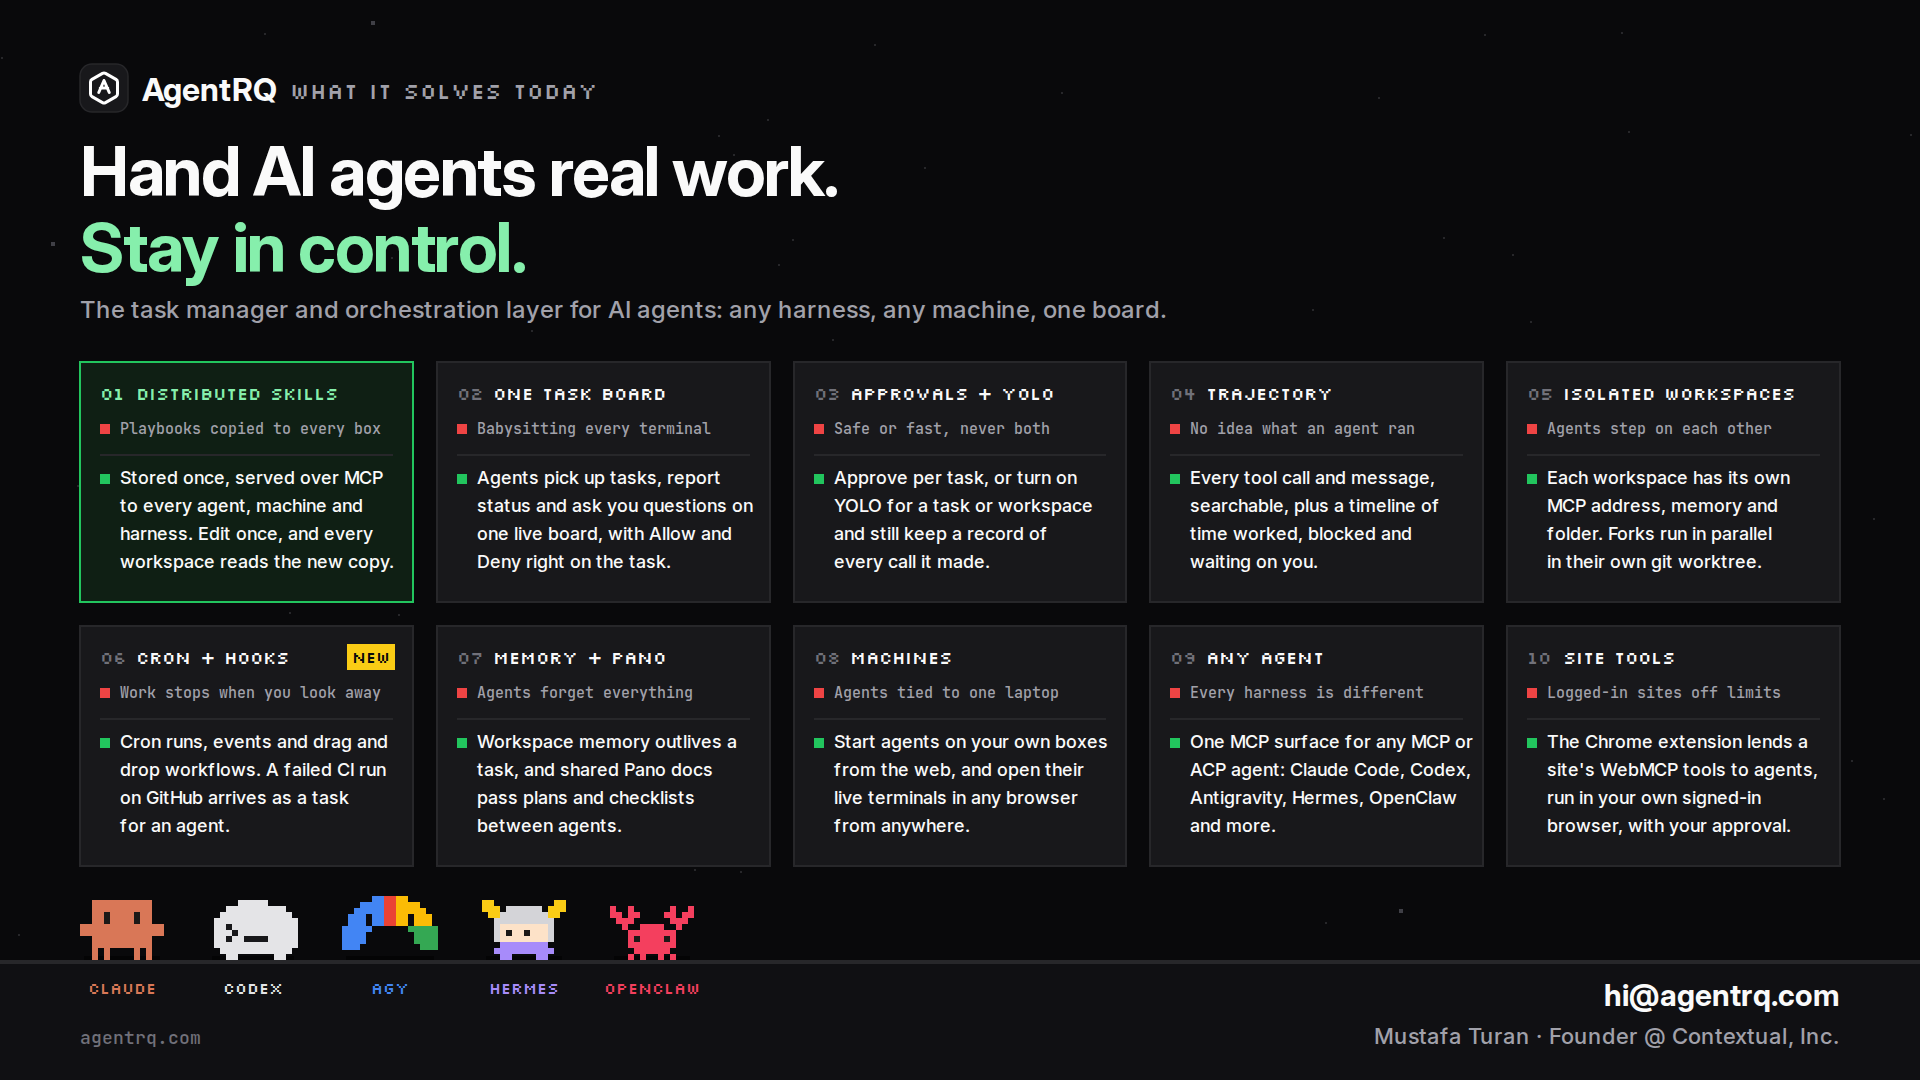
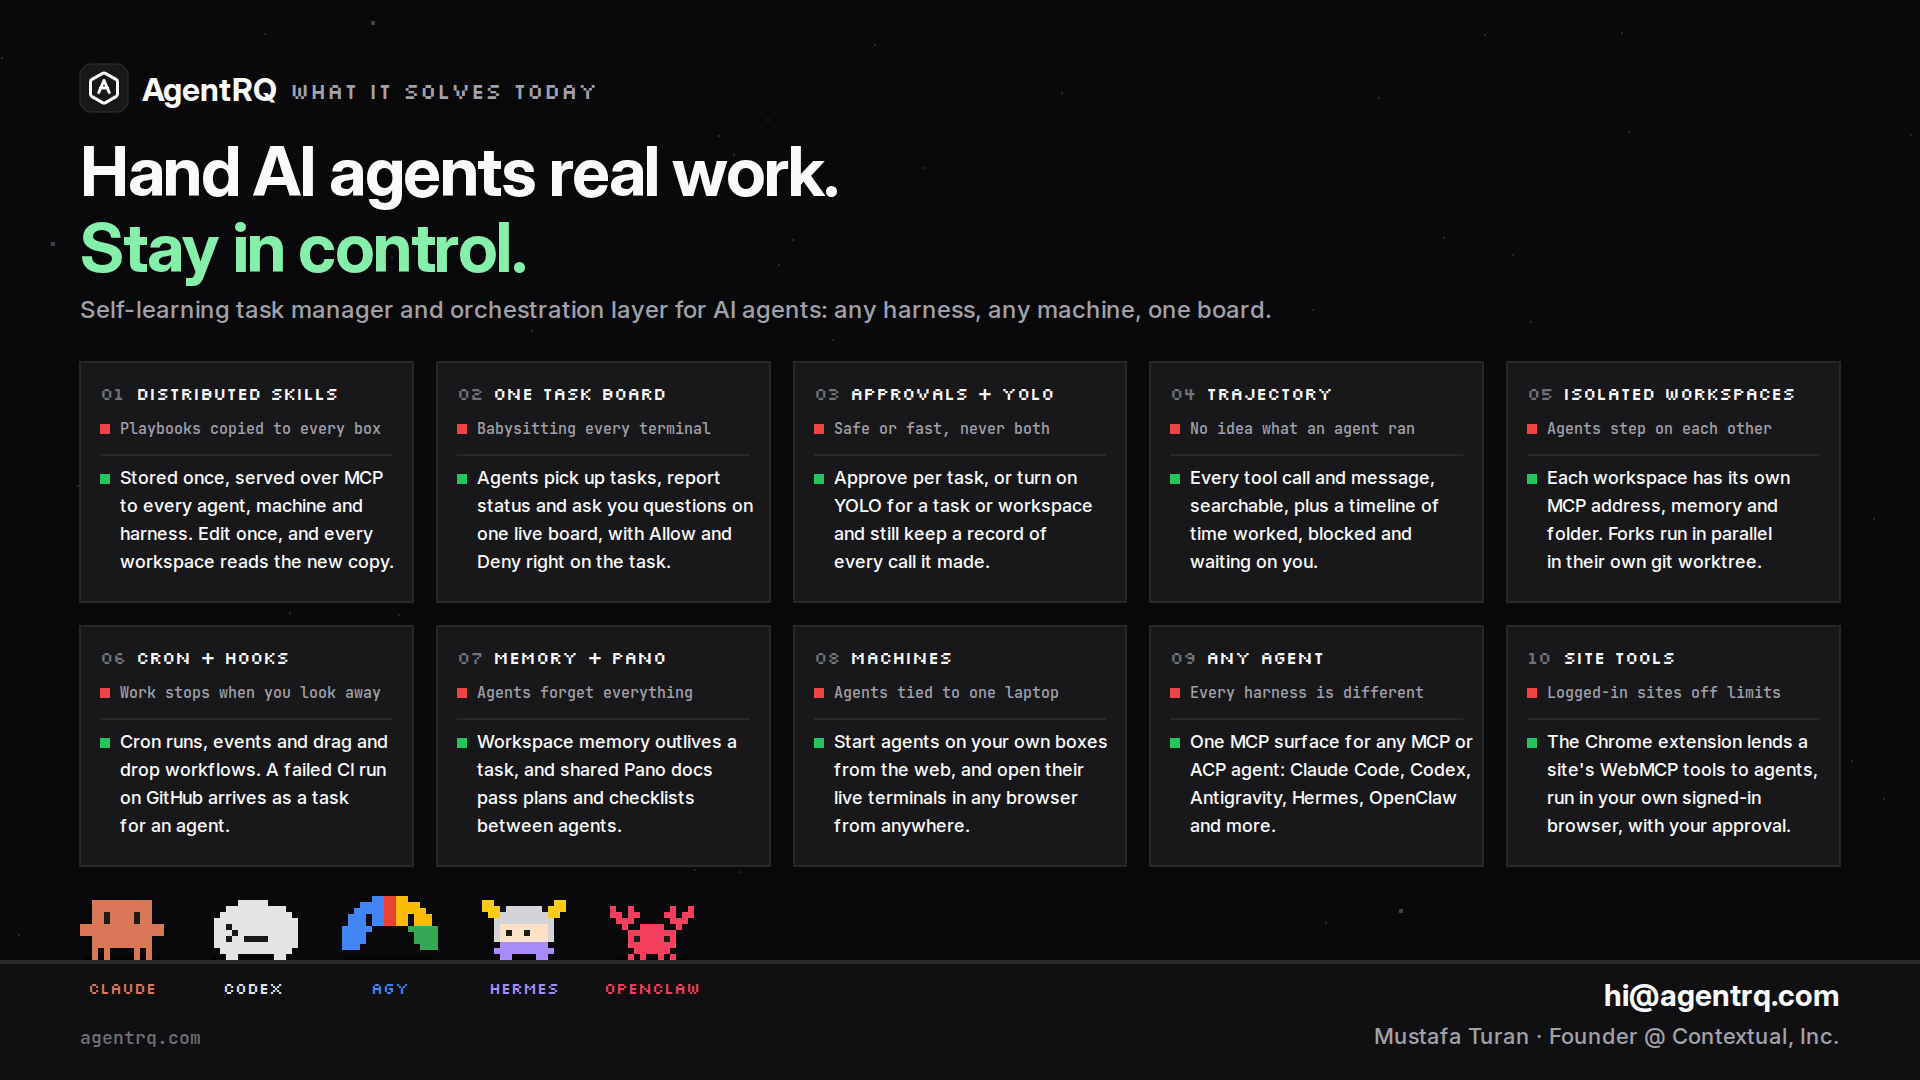
fix: no highlighted card or NEW flag, and a self-learning subtitle

Changed region(s): [[0.0312, 0.275, 0.6562, 0.3056], [0.1875, 0.5806, 0.2188, 0.6417], [0.0938, 0.3361, 0.1562, 0.3667]]

diff --git a/slides/problems-solved.js b/slides/problems-solved.js
@@ -9,13 +9,13 @@ export const H = 1080;
 const GROUND = 960;
 const PX = 6;
 
-// [kicker, problem, solution lines, highlight]
+// [kicker, problem, solution lines]
 export const CARDS = [
   ['DISTRIBUTED SKILLS', 'Playbooks copied to every box', [
     'Stored once, served over MCP',
     'to every agent, machine and',
     'harness. Edit once, and every',
-    'workspace reads the new copy.'], 'lead'],
+    'workspace reads the new copy.']],
   ['ONE TASK BOARD', 'Babysitting every terminal', [
     'Agents pick up tasks, report',
     'status and ask you questions on',
@@ -40,7 +40,7 @@ export const CARDS = [
     'Cron runs, events and drag and',
     'drop workflows. A failed CI run',
     'on GitHub arrives as a task',
-    'for an agent.'], 'new'],
+    'for an agent.']],
   ['MEMORY + PANO', 'Agents forget everything', [
     'Workspace memory outlives a',
     'task, and shared Pano docs',
@@ -82,15 +82,10 @@ function logo(s, x, y, scale) {
       el('path', { d: 'M12 7l-3.5 8M12 7l3.5 8M9.5 12h5' }))));
 }
 
-function card(s, { x, y, w, h }, [kicker, problem, lines, mark], n) {
-  const lead = mark === 'lead';
-  s.add(el('rect', { x, y, width: w, height: h, fill: lead ? '#0f1f14' : C.panel, stroke: lead ? C.ongoing : C.line, 'stroke-width': 2, class: 'px' }));
-  s.add(s.text(String(n).padStart(2, '0'), { x: x + 20, y: y + 38, font: 'pixel', size: 18, fill: lead ? C.lit : C.notstarted }));
-  s.add(s.text(kicker, { x: x + 56, y: y + 38, font: 'pixel', size: 18, fill: lead ? C.lit : C.text }));
-  if (mark === 'new') {
-    s.add(el('rect', { x: x + w - 66, y: y + 18, width: 48, height: 26, fill: C.ask, class: 'px' }));
-    s.add(s.text('NEW', { x: x + w - 42, y: y + 37, font: 'pixel', size: 16, fill: C.ink, anchor: 'middle' }));
-  }
+function card(s, { x, y, w, h }, [kicker, problem, lines], n) {
+  s.add(el('rect', { x, y, width: w, height: h, fill: C.panel, stroke: C.line, 'stroke-width': 2, class: 'px' }));
+  s.add(s.text(String(n).padStart(2, '0'), { x: x + 20, y: y + 38, font: 'pixel', size: 18, fill: C.notstarted }));
+  s.add(s.text(kicker, { x: x + 56, y: y + 38, font: 'pixel', size: 18, fill: C.text }));
   // The problem, marked in the blocked red.
   s.add(el('rect', { x: x + 20, y: y + 62, width: 10, height: 10, fill: C.blocked, class: 'px' }));
   s.add(s.text(problem, { x: x + 40, y: y + 72, font: 'mono', size: 15, fill: C.dim }));
@@ -104,7 +99,7 @@ export default async function () {
   const base = newScene({ description: 'x', poster: 1 });
   const s = new Scene({
     width: W, height: H, loop: 1, background: C.bg, poster: 0,
-    description: 'What AgentRQ solves today: ten problems of running AI coding agents, each with what AgentRQ does about it, led by distributed skills. Contact hi@agentrq.com, Mustafa Turan, Founder at Contextual, Inc.',
+    description: 'What AgentRQ solves today: ten problems of running AI coding agents, each with what AgentRQ does about it. Contact hi@agentrq.com, Mustafa Turan, Founder at Contextual, Inc.',
   });
   s.fonts = base.fonts;
 
@@ -116,7 +111,7 @@ export default async function () {
   s.add(s.text('WHAT IT SOLVES TODAY', { x: 290, y: 99, font: 'pixel', size: 22, fill: C.dim }));
   s.add(s.text('Hand AI agents real work.', { x: 80, y: 196, font: 'bold', size: 68, fill: C.text, spacing: -1.5 }));
   s.add(s.text('Stay in control.', { x: 80, y: 272, font: 'bold', size: 68, fill: C.lit, spacing: -1.5 }));
-  s.add(s.text('The task manager and orchestration layer for AI agents: any harness, any machine, one board.', { x: 80, y: 318, font: 'body', size: 24, fill: C.dim }));
+  s.add(s.text('Self-learning task manager and orchestration layer for AI agents: any harness, any machine, one board.', { x: 80, y: 318, font: 'body', size: 24, fill: C.dim }));
 
   // Ten problems in two rows of five.
   const cols = 5, gap = 24, x0 = 80, y0 = 362, w = (W - 2 * x0 - (cols - 1) * gap) / cols, h = 240;

diff --git a/test/slides.test.js b/test/slides.test.js
@@ -12,6 +12,6 @@ test('the problems-solved slide is a still 1920 x 1080 picture that passes check
   const svg = s.toSVG();
   assert.deepEqual(check(svg, { maxBytes: 300_000 }), []);
   assert.equal(CARDS.length, 10);
-  assert.equal(CARDS[0][0], 'DISTRIBUTED SKILLS', 'distributed skills lead');
-  for (const line of ['hi@agentrq.com', 'Mustafa Turan', 'Founder @ Contextual, Inc.']) assert.ok(svg.includes(line), line);
+  assert.ok(!svg.includes('>NEW<'), 'no card is flagged new');
+  for (const line of ['Self-learning task manager and orchestration layer', 'hi@agentrq.com', 'Mustafa Turan', 'Founder @ Contextual, Inc.']) assert.ok(svg.includes(line), line);
 });
